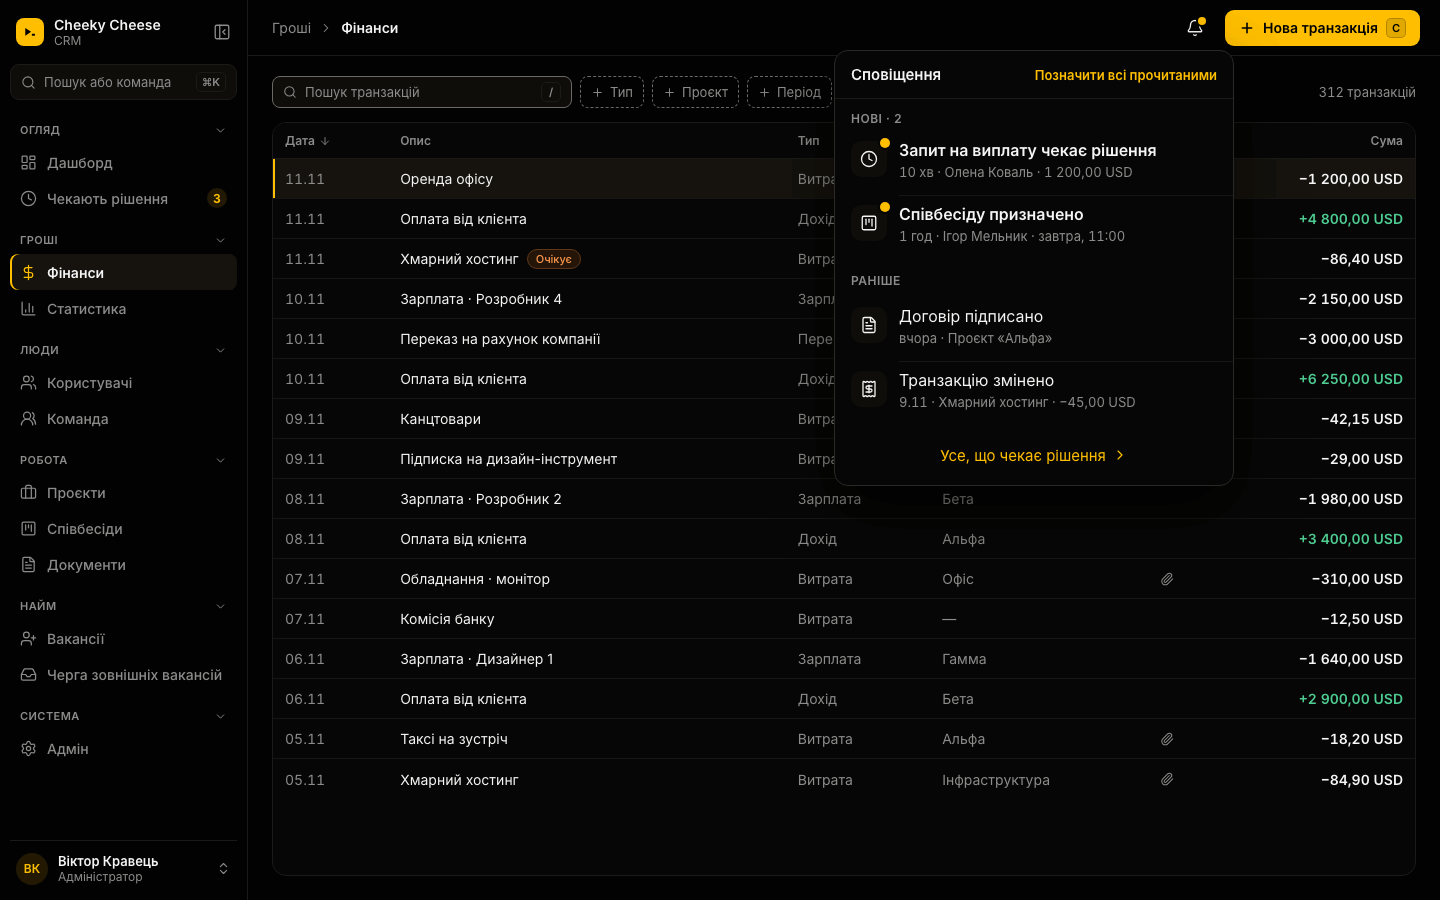
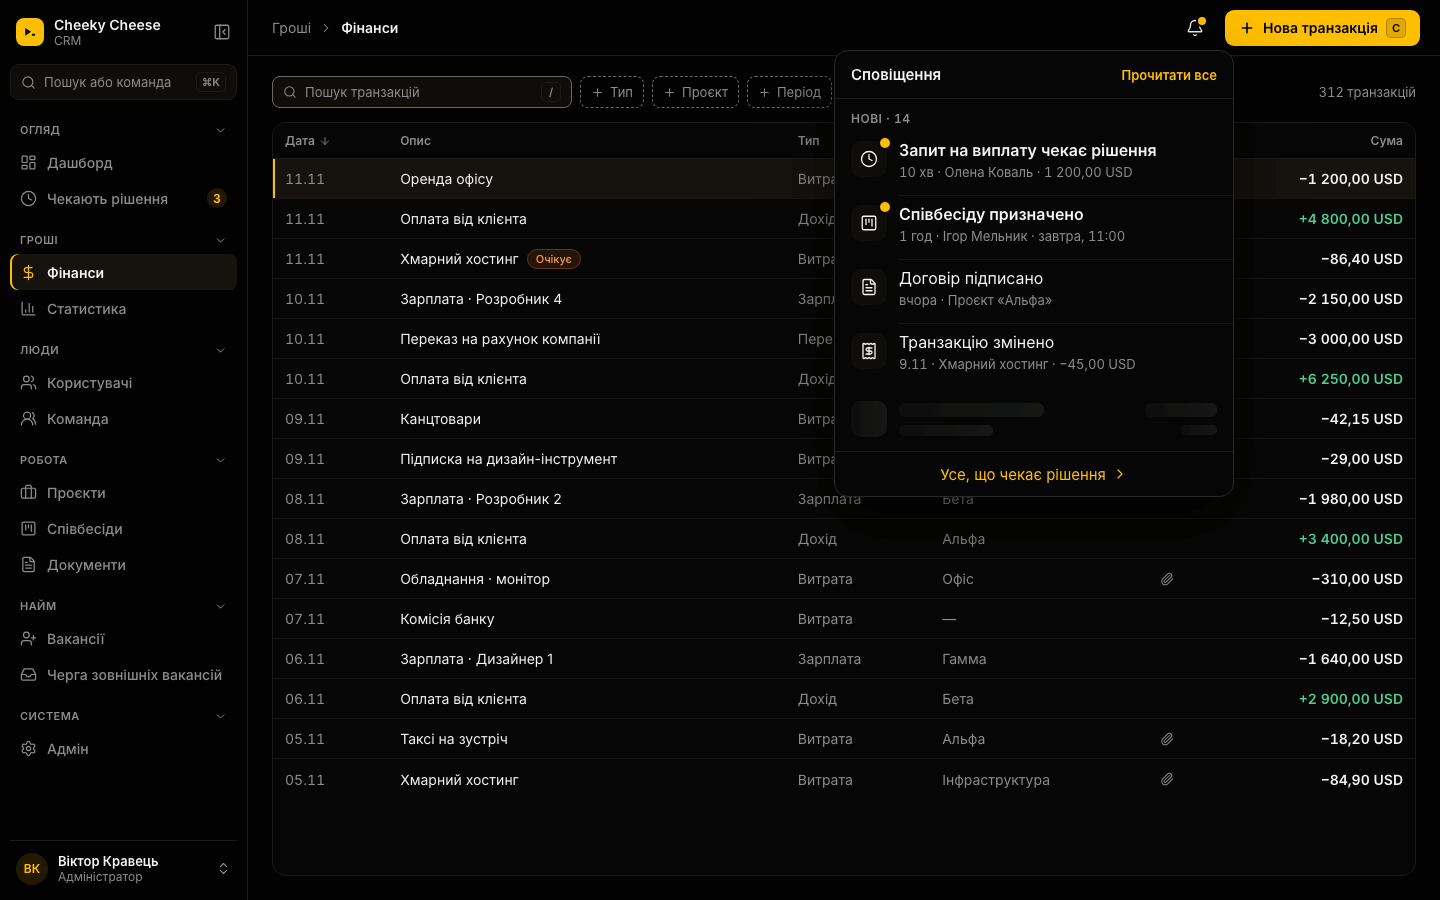
wip: panel server unread count, paging, «Прочитати все», non-modal popover (R11 D)

Changed region(s): [[0.5938, 0.28, 0.7812, 0.4667], [0.6562, 0.4978, 0.7812, 0.56], [0.7188, 0.0622, 0.8438, 0.0933]]

diff --git a/docs/design/screens/_foundation/shell-v2.md b/docs/design/screens/_foundation/shell-v2.md
@@ -140,24 +140,18 @@ tab bar holds **4 destinations + «Ще»**. «Ще» holds everything else, gro
 - **Where:** the bell in the phone top bar, the tablet header and the desktop header. Phone: a medium sheet
   over the page the bell was tapped on (`notifications-375`). Tablet and desktop: a non-modal popover
   anchored under the bell, 400 px wide, no scrim; Esc, an outside click or the bell close it
-  (`notifications-1440`). The bell reads «Сповіщення, 2 нові» and carries the unread dot while anything is
-  unread.
-- **Content:** the latest 10 from the existing feed (`GET /api/notifications?limit=10`), «Нові · N» then
-  «Раніше». A row: icon tile (a yellow dot on its corner while unread), title (600 while unread; wraps, never truncates) and one muted line that starts with the relative time (`tabular-nums`) and wraps, so an amount is never cut. The footer link «Усе, що чекає рішення» opens
-  Чекають рішення.
+  (`notifications-1440`). The bell reads «Сповіщення, 14 нових» and carries the unread dot while anything is unread. The popover is **non-modal**: Tab past its last control closes it and moves on to the next control after the bell; Esc closes it and returns focus to the bell.
+- **Content:** one newest-first list from the existing feed (`GET /api/notifications?limit=10`). The header «Нові · N» takes N from the response's server-computed `unreadCount`, never from the loaded rows, so it reads «Нові · 14» while the first page holds two unread rows; it and «Прочитати все» show only while N > 0. The panel pages inside itself with the List footer auto-load (primitives-v2 §3): reaching the end loads the next 10 (skeleton row, then the inline «Не вдалося завантажити ще · Повторити» on failure). The feed has no cursor yet: a `before` cursor (the last row's time) on the same endpoint is a Wave 1 API AC. A row: icon tile (a yellow dot on its corner while unread), title (600 while unread; wraps, never truncates) and one muted line that starts with the relative time (`tabular-nums`) and wraps, so an amount is never cut. The link «Усе, що чекає рішення» is pinned under the list (it never scrolls away while pages load) and opens Чекають рішення.
 - **States:** the unread list; **empty**: «Сповіщень немає» and «Тут з’являться події за вашими проєктами,
-  грошима та документами», with no «Позначити всі прочитаними» and no bell dot (`notifications-empty-375`);
+  грошима та документами», with no «Прочитати все», no pinned link and no bell dot (`notifications-empty-375`);
   **loading**: three skeleton rows; **error**: `role="alert"` «Не вдалося завантажити сповіщення» with
   «Повторити», which re-reads only; a list loaded before stays visible under it.
-- **Mark read:** opening a row marks it read (optimistic; the dot goes at once). «Позначити всі
-  прочитаними» is a text button in the list header (a 44 px hit area that adds no height); it shows only
-  while something is unread, marks every row read and asks nothing, because nothing is lost. The existing per-row delete stays. Phone: a trailing swipe, plus a visible 44 px «…» («Дії зі сповіщенням») and a long-press that open the same menu; this is the pattern for a row without a pushed detail (primitives-v2 §3), because the target page carries no delete. At ≥ 640: a trailing delete icon that hover or focus reveals at a fine pointer and that is always visible at 44 px under a coarse pointer (foundation §13).
+- **Mark read:** opening a row marks it read (optimistic; the dot goes at once). «Прочитати все» (the shipped label, kept) is a text button in the list header (a 44 px hit area that adds no height); it shows only while N > 0 and marks every unread row read **on the server** (`PATCH /api/notifications/read-all`), loaded or not, so N drops to 0 and the bell dot goes. It asks nothing, because nothing is lost. The existing per-row delete stays. Phone: a trailing swipe, plus a visible 44 px «…» («Дії зі сповіщенням») and a long-press that open the same menu; this is the pattern for a row without a pushed detail (primitives-v2 §3), because the target page carries no delete. At ≥ 640: a trailing delete icon that hover or focus reveals at a fine pointer and that is always visible at 44 px under a coarse pointer (foundation §13).
 - **Open the target:** a row is a link to its target (deep link). The panel closes, the target page is
   pushed, and back returns to the page the bell was opened on, never to the panel. A target the viewer
   can no longer see opens that page's own not-found state. Drafts and markers are untouched (foundation
   §11, row «Open a notification»).
-- **A11y:** sheet and popover are `role="dialog"` «Сповіщення». Keyboard focus moves to the first row (no
-  ring on touch); Tab stays inside; Esc closes and focus returns to the bell. A notification that arrives
+- **A11y:** sheet and popover are `role="dialog"` «Сповіщення». Keyboard focus moves to the first row (no ring on touch). The phone sheet is modal (focus trap; Esc or the close button returns focus to the bell). The ≥ 640 popover is non-modal: no trap; Tab past its last control closes it and focus moves on in page order; Esc closes it and returns focus to the bell. A notification that arrives
   while the panel is open is announced once, politely («1 нове сповіщення»), and never moves focus.
 
 ### Shell states
@@ -265,45 +259,45 @@ changes.
 
 ## 5. Frames (all PNG under `assets/shell-v2/`)
 
-| Frame                                | Width | Shows                                                                             |
-| ------------------------------------ | ----: | --------------------------------------------------------------------------------- |
-| `tabbar-admin-375.png`               |   375 | ADMIN tab bar (tab 4 «Адмін»), «Ще» badge, «+»                                    |
-| `tabbar-senior-375.png`              |   375 | SENIOR tab bar, own-project rows only                                             |
-| `tabbar-senior-teamless-375.png`     |   375 | SENIOR without a team (Документи in slot 4)                                       |
-| `tabbar-junior-375.png`              |   375 | JUNIOR (no «+»), own salary rows only                                             |
-| `tabbar-hr-375.png`                  |   375 | HR                                                                                |
-| `tabbar-accountant-375.png`          |   375 | ACCOUNTANT                                                                        |
-| `tabbar-drop-375.png`                |   375 | DROP, drop income and payout rows only                                            |
-| `tabbar-admin-320.png`               |   320 | ADMIN at the narrowest width (labels fit)                                         |
-| `tabbar-hr-320.png`                  |   320 | HR at 320 (longest labels)                                                        |
-| `more-sheet-admin-375.png`           |   375 | More sheet, ADMIN (8; «Дашборд» in Огляд)                                         |
-| `more-sheet-junior-375.png`          |   375 | More sheet, JUNIOR (short)                                                        |
-| `more-sheet-admin-320.png`           |   320 | More sheet at 320                                                                 |
-| `quick-add-admin-375.png`            |   375 | Quick-add menu from Статистика (4 actions)                                        |
-| `quick-add-hr-320.png`               |   320 | Quick-add menu at 320                                                             |
-| `quick-add-txn-keyboard-375.png`     |   375 | Canonical money form, decimal keys + system bar                                   |
-| `quick-add-txn-armed-375.png`        |   375 | Save armed: «Згорнути», separate disarm, 62%                                      |
-| `quick-add-txn-armed-320.png`        |   320 | Armed at 320: 1 250 000,50 UAH, label wraps                                       |
-| `state-loading-375.png`              |   375 | Shell + skeleton                                                                  |
-| `state-scrolled-375.png`             |   375 | Scrolled: inline title, FAB slid out, amount readable                             |
-| `state-empty-375.png`                |   375 | Empty tab root                                                                    |
-| `state-error-375.png`                |   375 | Load error with a safe re-fetch                                                   |
-| `state-offline-375.png`              |   375 | Offline banner, FAB stays enabled                                                 |
-| `state-impersonation-375.png`        |   375 | Impersonation banner                                                              |
-| `tablet-rail-768.png`                |   768 | Rail with every destination, one pane                                             |
-| `tablet-rail-more-768.png`           |   768 | 768 × 700 window: overflow «Ще» popover                                           |
-| `tablet-two-pane-1000.png`           |  1000 | ≥ 900: rail 80 · list 360 · detail 560 (detail body)                              |
-| `desktop-sidebar-1024.png`           |  1024 | Sidebar + header + dense table                                                    |
-| `desktop-sidebar-collapsed-1024.png` |  1024 | Collapsed rail with tooltip                                                       |
-| `desktop-sidebar-1440.png`           |  1440 | Wide: extra column, selected-row bar                                              |
-| `shell-touch-1180.png`               |  1180 | iPad landscape: desktop layout, touch density                                     |
-| `desktop-cmdk-1440.png`              |  1440 | Cmd+K palette                                                                     |
-| `desktop-cmdk-1024.png`              |  1024 | Cmd+K at the narrowest desktop                                                    |
-| `desktop-shortcuts-1440.png`         |  1440 | `?` shortcut sheet with the single-key toggle                                     |
-| `session-banner-375.png`             |   375 | After «Не зараз»: the persistent session banner, background requests paused       |
-| `notifications-375.png`              |   375 | Notifications panel, phone: medium sheet, «Нові · 2», «Позначити всі прочитаними» |
-| `notifications-empty-375.png`        |   375 | Notifications panel, empty: no mark-all, no bell dot                              |
-| `notifications-1440.png`             |  1440 | Notifications popover under the bell (no scrim)                                   |
+| Frame                                | Width | Shows                                                                                                                 |
+| ------------------------------------ | ----: | --------------------------------------------------------------------------------------------------------------------- |
+| `tabbar-admin-375.png`               |   375 | ADMIN tab bar (tab 4 «Адмін»), «Ще» badge, «+»                                                                        |
+| `tabbar-senior-375.png`              |   375 | SENIOR tab bar, own-project rows only                                                                                 |
+| `tabbar-senior-teamless-375.png`     |   375 | SENIOR without a team (Документи in slot 4)                                                                           |
+| `tabbar-junior-375.png`              |   375 | JUNIOR (no «+»), own salary rows only                                                                                 |
+| `tabbar-hr-375.png`                  |   375 | HR                                                                                                                    |
+| `tabbar-accountant-375.png`          |   375 | ACCOUNTANT                                                                                                            |
+| `tabbar-drop-375.png`                |   375 | DROP, drop income and payout rows only                                                                                |
+| `tabbar-admin-320.png`               |   320 | ADMIN at the narrowest width (labels fit)                                                                             |
+| `tabbar-hr-320.png`                  |   320 | HR at 320 (longest labels)                                                                                            |
+| `more-sheet-admin-375.png`           |   375 | More sheet, ADMIN (8; «Дашборд» in Огляд)                                                                             |
+| `more-sheet-junior-375.png`          |   375 | More sheet, JUNIOR (short)                                                                                            |
+| `more-sheet-admin-320.png`           |   320 | More sheet at 320                                                                                                     |
+| `quick-add-admin-375.png`            |   375 | Quick-add menu from Статистика (4 actions)                                                                            |
+| `quick-add-hr-320.png`               |   320 | Quick-add menu at 320                                                                                                 |
+| `quick-add-txn-keyboard-375.png`     |   375 | Canonical money form, decimal keys + system bar                                                                       |
+| `quick-add-txn-armed-375.png`        |   375 | Save armed: «Згорнути», separate disarm, 62%                                                                          |
+| `quick-add-txn-armed-320.png`        |   320 | Armed at 320: 1 250 000,50 UAH, label wraps                                                                           |
+| `state-loading-375.png`              |   375 | Shell + skeleton                                                                                                      |
+| `state-scrolled-375.png`             |   375 | Scrolled: inline title, FAB slid out, amount readable                                                                 |
+| `state-empty-375.png`                |   375 | Empty tab root                                                                                                        |
+| `state-error-375.png`                |   375 | Load error with a safe re-fetch                                                                                       |
+| `state-offline-375.png`              |   375 | Offline banner, FAB stays enabled                                                                                     |
+| `state-impersonation-375.png`        |   375 | Impersonation banner                                                                                                  |
+| `tablet-rail-768.png`                |   768 | Rail with every destination, one pane                                                                                 |
+| `tablet-rail-more-768.png`           |   768 | 768 × 700 window: overflow «Ще» popover                                                                               |
+| `tablet-two-pane-1000.png`           |  1000 | ≥ 900: rail 80 · list 360 · detail 560 (detail body)                                                                  |
+| `desktop-sidebar-1024.png`           |  1024 | Sidebar + header + dense table                                                                                        |
+| `desktop-sidebar-collapsed-1024.png` |  1024 | Collapsed rail with tooltip                                                                                           |
+| `desktop-sidebar-1440.png`           |  1440 | Wide: extra column, selected-row bar                                                                                  |
+| `shell-touch-1180.png`               |  1180 | iPad landscape: desktop layout, touch density                                                                         |
+| `desktop-cmdk-1440.png`              |  1440 | Cmd+K palette                                                                                                         |
+| `desktop-cmdk-1024.png`              |  1024 | Cmd+K at the narrowest desktop                                                                                        |
+| `desktop-shortcuts-1440.png`         |  1440 | `?` shortcut sheet with the single-key toggle                                                                         |
+| `session-banner-375.png`             |   375 | After «Не зараз»: the persistent session banner, background requests paused                                           |
+| `notifications-375.png`              |   375 | Notifications panel, phone: medium sheet, «Нові · 14» (server count), «Прочитати все», next page loading, pinned link |
+| `notifications-empty-375.png`        |   375 | Notifications panel, empty: no mark-all, no bell dot                                                                  |
+| `notifications-1440.png`             |  1440 | Notifications popover under the bell (no scrim)                                                                       |
 
 Re-render: `node assets/src/render.mjs shell [filter]`, then `assets/src/contact-sheet.sh shell`.
 
@@ -344,5 +338,4 @@ Re-render: `node assets/src/render.mjs shell [filter]`, then `assets/src/contact
 - The armed save after an upload (frozen payload, kept across a sheet dismiss, carried by the pill)
   and the in-memory draft are proposals; the Wave 1 finance spec confirms them per form. The draft row
   is drawn (`primitives-v2/listrow-draft-375`). The two unknown-outcome exits are owner-approved 2026-11-12.
-- The notifications header button reads «Позначити всі прочитаними» per the R10 brief; the shipped catalog says
-  «Прочитати все». Wave 1 renames it in both `uk` and `en` (copy-reviewer).
+- The notifications list needs a `before` cursor on `GET /api/notifications` to page (Wave 1 API AC); `unreadCount` and `PATCH /read-all` already exist.
